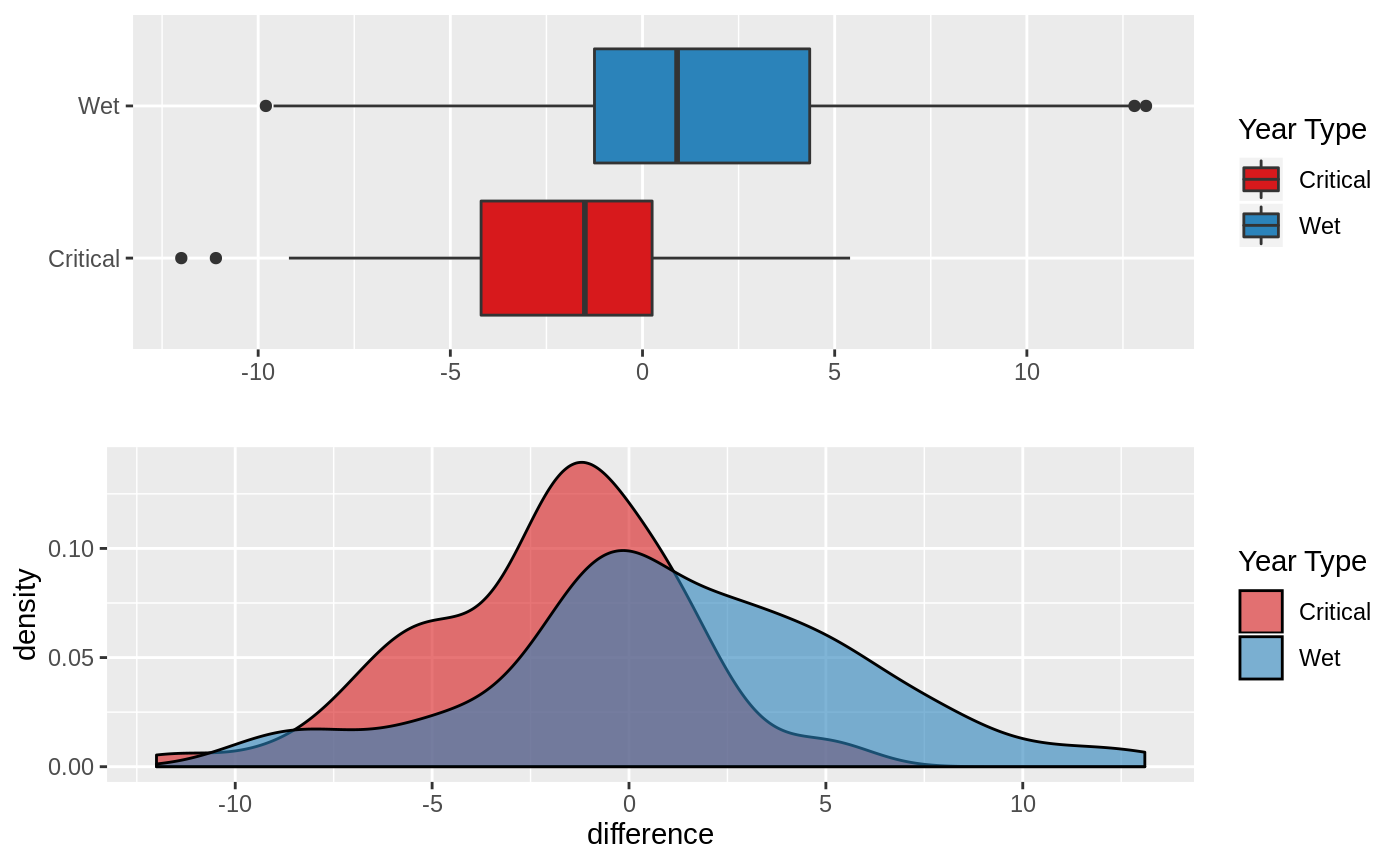
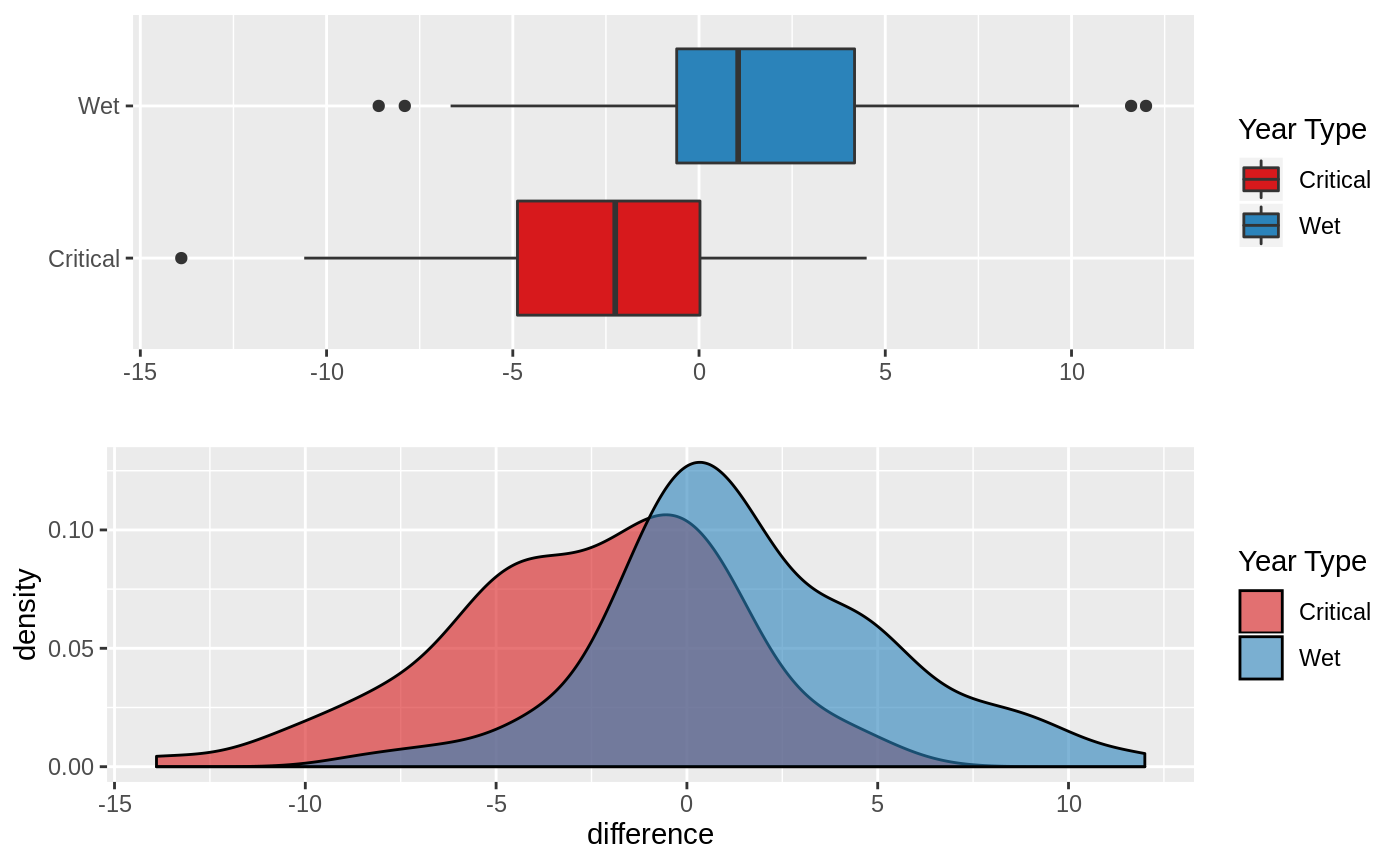
bring in work from home

diff --git a/docs/articles/groundwater-sites.html b/docs/articles/groundwater-sites.html
@@ -99,8 +99,8 @@
 <h2 class="hasAnchor">
 <a href="#all-sites-within-the-big-valley-subasin" class="anchor"></a>All Sites within the Big Valley Subasin</h2>
 <p>The data used is a result from making a query for all groundwater sites within the the Big Valley Subasin on the CASGEM data portal.</p>
-<div id="htmlwidget-868a864c9f6f1bf18823" style="width:700px;height:432.632880098888px;" class="leaflet html-widget"></div>
-<script type="application/json" data-for="htmlwidget-868a864c9f6f1bf18823">{"x":{"options":{"crs":{"crsClass":"L.CRS.EPSG3857","code":null,"proj4def":null,"projectedBounds":null,"options":{}}},"calls":[{"method":"addProviderTiles","args":["OpenTopoMap",null,null,{"errorTileUrl":"","noWrap":false,"detectRetina":false}]},{"method":"addCircleMarkers","args":[[38.9535,38.96222,38.971933,38.9718,38.9726,38.9734,38.9741,38.9778,38.9796,38.9796,38.9797,38.9825,38.9838,38.9863,38.9868,38.987505,38.9884,38.9898,38.9898,38.9907,38.9909,38.993,38.9937,38.9937,38.994,38.994647,38.994679,38.9971,38.997183,38.997506,38.9977,38.9984,38.9993,39.0009,39.00357,39.00404,39.0041,39.0043,39.0044,39.0044,39.0045,39.0047,39.0047,39.007004,39.005291,39.007381,39.009652,39.0104,39.0111,39.01281,38.9392,38.9403,38.9424,38.94378,38.9443,38.9464,38.9518,38.9542,38.9569,38.958677,38.9592,38.9592,38.9606,38.9611,38.9621,38.9626,38.9629,38.96434,38.9706,38.9718,38.9719,38.9744,38.9762,38.9766,38.98,38.9815,39.0136,39.0149,39.015,39.0159,39.0164,39.0175,39.0183,39.018588,39.020175],[-122.8968,-122.867223,-122.895905,-122.8958,-122.8847,-122.8679,-122.8984,-122.8732,-122.8819,-122.8819,-122.8831,-122.8286,-122.8931,-122.8186,-122.8802,-122.866551,-122.8936,-122.8293,-122.8555,-122.8239,-122.9116,-122.8687,-122.8718,-122.8751,-122.8706,-122.894686,-122.82226,-122.8413,-122.841335,-122.877074,-122.9095,-122.8666,-122.8482,-122.8936,-122.84271,-122.848964,-122.8801,-122.8288,-122.8434,-122.896,-122.8662,-122.8951,-122.8963,-122.839639,-122.838267,-122.822292,-122.838395,-122.8306,-122.8526,-122.861743,-122.8729,-122.8788,-122.8464,-122.861025,-122.8625,-122.8892,-122.8512,-122.841,-122.8885,-122.854461,-122.8391,-122.8971,-122.8615,-122.8872,-122.8314,-122.8515,-122.8978,-122.851532,-122.8324,-122.841,-122.855,-122.8435,-122.8258,-122.82878,-122.8443,-122.8559,-122.8362,-122.8719,-122.8646,-122.8906,-122.8322,-122.8682,-122.8483,-122.881273,-122.850014],10,null,null,{"interactive":true,"className":"","stroke":true,"color":"black","weight":2,"opacity":0.5,"fill":true,"fillColor":"#2b83ba","fillOpacity":0.8},null,null,["389535N1228968W001","389621N1228673W001","389711N1228964W001","389718N1228958W001","389726N1228847W001","389734N1228679W001","389741N1228984W001","389778N1228732W001","389796N1228819W001","389796N1228819W002","389797N1228831W001","389825N1228286W001","389838N1228931W001","389863N1228186W001","389868N1228802W001","389875N1228666W001","389884N1228936W001","389898N1228293W001","389898N1228555W001","389907N1228239W001","389909N1229116W001","389930N1228687W001","389937N1228718W001","389937N1228751W001","389940N1228706W001","389946N1228947W001","389949N1228308W001","389971N1228413W001","389972N1228414W001","389975N1228770W001","389977N1229095W001","389984N1228666W001","389993N1228482W001","390009N1228936W001","390011N1228427W001","390040N1228490W001","390041N1228801W001","390043N1228288W001","390044N1228434W001","390044N1228960W001","390045N1228662W001","390047N1228951W001","390047N1228963W001","390058N1228420W001","390068N1228381W001","390074N1228223W001","390095N1228385W001","390104N1228306W001","390111N1228526W001","390128N1228617W001","389392N1228729W001","389403N1228788W001","389424N1228464W001","389438N1228611W001","389443N1228625W001","389464N1228892W001","389518N1228512W001","389542N1228410W001","389569N1228885W001","389587N1228545W001","389592N1228391W001","389592N1228971W001","389606N1228615W001","389611N1228872W001","389621N1228314W001","389626N1228515W001","389629N1228978W001","389644N1228514W001","389706N1228324W001","389718N1228410W001","389719N1228550W001","389744N1228435W001","389762N1228258W001","389765N1228285W001","389800N1228443W001","389815N1228559W001","390136N1228362W001","390149N1228719W001","390150N1228646W001","390159N1228906W001","390164N1228322W001","390175N1228682W001","390183N1228483W001","390186N1228813W001","390202N1228500W001"],null,null,{"interactive":false,"permanent":false,"direction":"auto","opacity":1,"offset":[0,0],"textsize":"10px","textOnly":false,"className":"","sticky":true},null]}],"limits":{"lat":[38.9392,39.020175],"lng":[-122.9116,-122.8186]}},"evals":[],"jsHooks":[]}</script><p>In total there are 85 sites in the Big Valley basin. The earliest recorded data is from June 02, 1948, and the most recent recording is from March 28, 2019. The most abundant years of data are:</p>
+<div id="htmlwidget-66934b4136c105a0c10a" style="width:700px;height:432.632880098888px;" class="leaflet html-widget"></div>
+<script type="application/json" data-for="htmlwidget-66934b4136c105a0c10a">{"x":{"options":{"crs":{"crsClass":"L.CRS.EPSG3857","code":null,"proj4def":null,"projectedBounds":null,"options":{}}},"calls":[{"method":"addProviderTiles","args":["OpenTopoMap",null,null,{"errorTileUrl":"","noWrap":false,"detectRetina":false}]},{"method":"addCircleMarkers","args":[[38.9535,38.96222,38.971933,38.9718,38.9726,38.9734,38.9741,38.9778,38.9796,38.9796,38.9797,38.9825,38.9838,38.9863,38.9868,38.987505,38.9884,38.9898,38.9898,38.9907,38.9909,38.993,38.9937,38.9937,38.994,38.994647,38.994679,38.9971,38.997183,38.997506,38.9977,38.9984,38.9993,39.0009,39.00357,39.00404,39.0041,39.0043,39.0044,39.0044,39.0045,39.0047,39.0047,39.007004,39.005291,39.007381,39.009652,39.0104,39.0111,39.01281,38.9392,38.9403,38.9424,38.94378,38.9443,38.9464,38.9518,38.9542,38.9569,38.958677,38.9592,38.9592,38.9606,38.9611,38.9621,38.9626,38.9629,38.96434,38.9706,38.9718,38.9719,38.9744,38.9762,38.9766,38.98,38.9815,39.0136,39.0149,39.015,39.0159,39.0164,39.0175,39.0183,39.018588,39.020175],[-122.8968,-122.867223,-122.895905,-122.8958,-122.8847,-122.8679,-122.8984,-122.8732,-122.8819,-122.8819,-122.8831,-122.8286,-122.8931,-122.8186,-122.8802,-122.866551,-122.8936,-122.8293,-122.8555,-122.8239,-122.9116,-122.8687,-122.8718,-122.8751,-122.8706,-122.894686,-122.82226,-122.8413,-122.841335,-122.877074,-122.9095,-122.8666,-122.8482,-122.8936,-122.84271,-122.848964,-122.8801,-122.8288,-122.8434,-122.896,-122.8662,-122.8951,-122.8963,-122.839639,-122.838267,-122.822292,-122.838395,-122.8306,-122.8526,-122.861743,-122.8729,-122.8788,-122.8464,-122.861025,-122.8625,-122.8892,-122.8512,-122.841,-122.8885,-122.854461,-122.8391,-122.8971,-122.8615,-122.8872,-122.8314,-122.8515,-122.8978,-122.851532,-122.8324,-122.841,-122.855,-122.8435,-122.8258,-122.82878,-122.8443,-122.8559,-122.8362,-122.8719,-122.8646,-122.8906,-122.8322,-122.8682,-122.8483,-122.881273,-122.850014],10,null,null,{"interactive":true,"className":"","stroke":true,"color":"black","weight":2,"opacity":0.5,"fill":true,"fillColor":"#2b83ba","fillOpacity":0.8},null,null,["389535N1228968W001","389621N1228673W001","389711N1228964W001","389718N1228958W001","389726N1228847W001","389734N1228679W001","389741N1228984W001","389778N1228732W001","389796N1228819W001","389796N1228819W002","389797N1228831W001","389825N1228286W001","389838N1228931W001","389863N1228186W001","389868N1228802W001","389875N1228666W001","389884N1228936W001","389898N1228293W001","389898N1228555W001","389907N1228239W001","389909N1229116W001","389930N1228687W001","389937N1228718W001","389937N1228751W001","389940N1228706W001","389946N1228947W001","389949N1228308W001","389971N1228413W001","389972N1228414W001","389975N1228770W001","389977N1229095W001","389984N1228666W001","389993N1228482W001","390009N1228936W001","390011N1228427W001","390040N1228490W001","390041N1228801W001","390043N1228288W001","390044N1228434W001","390044N1228960W001","390045N1228662W001","390047N1228951W001","390047N1228963W001","390058N1228420W001","390068N1228381W001","390074N1228223W001","390095N1228385W001","390104N1228306W001","390111N1228526W001","390128N1228617W001","389392N1228729W001","389403N1228788W001","389424N1228464W001","389438N1228611W001","389443N1228625W001","389464N1228892W001","389518N1228512W001","389542N1228410W001","389569N1228885W001","389587N1228545W001","389592N1228391W001","389592N1228971W001","389606N1228615W001","389611N1228872W001","389621N1228314W001","389626N1228515W001","389629N1228978W001","389644N1228514W001","389706N1228324W001","389718N1228410W001","389719N1228550W001","389744N1228435W001","389762N1228258W001","389765N1228285W001","389800N1228443W001","389815N1228559W001","390136N1228362W001","390149N1228719W001","390150N1228646W001","390159N1228906W001","390164N1228322W001","390175N1228682W001","390183N1228483W001","390186N1228813W001","390202N1228500W001"],null,null,{"interactive":false,"permanent":false,"direction":"auto","opacity":1,"offset":[0,0],"textsize":"10px","textOnly":false,"className":"","sticky":true},null]}],"limits":{"lat":[38.9392,39.020175],"lng":[-122.9116,-122.8186]}},"evals":[],"jsHooks":[]}</script><p>In total there are 85 sites in the Big Valley basin. The earliest recorded data is from June 02, 1948, and the most recent recording is from March 28, 2019. The most abundant years of data are:</p>
 <p><br></p>
 <p><img src="groundwater-sites_files/figure-html/unnamed-chunk-4-1.png" width="700"></p>
 <p>Measurements of groundwater elevations is done twice a year, once in the Spring and once in the Fall. However Spring and Fall are not a consitent month. The plot below shows how the data observations are distributed across the months. I present the data as proportions (for example October accounts for over 30% of all the data we have).</p>
@@ -114,8 +114,8 @@
 <img src="adobe-creek-sites.png" alt="sites-along-adobe"><p class="caption">sites-along-adobe</p>
 </div>
 <p>Here are the identified sites from CASGEM that are near the Adobe Creek.</p>
-<div id="htmlwidget-6f618cf2766d7939de0c" style="width:700px;height:432.632880098888px;" class="leaflet html-widget"></div>
-<script type="application/json" data-for="htmlwidget-6f618cf2766d7939de0c">{"x":{"options":{"crs":{"crsClass":"L.CRS.EPSG3857","code":null,"proj4def":null,"projectedBounds":null,"options":{}}},"calls":[{"method":"addProviderTiles","args":["OpenTopoMap",null,null,{"errorTileUrl":"","noWrap":false,"detectRetina":false}]},{"method":"addCircleMarkers","args":[[38.9535,38.9726,38.9778,38.9796,38.9797,38.9868,38.993,38.9937,38.9937,38.994,38.997506,39.0041,38.9569,38.9592,39.0149,39.0175],[-122.8968,-122.8847,-122.8732,-122.8819,-122.8831,-122.8802,-122.8687,-122.8718,-122.8751,-122.8706,-122.877074,-122.8801,-122.8885,-122.8971,-122.8719,-122.8682],10,null,null,{"interactive":true,"className":"","stroke":true,"color":"black","weight":2,"opacity":0.5,"fill":true,"fillColor":"#2b83ba","fillOpacity":0.8},null,null,["Site Code <b>389535N1228968W001<\/b><br>Start Date: <b>Nov 03, 1948<\/b><br>End Date: <b>Oct 01, 2009<\/b><br>Total Observations: <b>109<\/b><br>Total Depth: <b>NA (feet)<\/b><br>","Site Code <b>389726N1228847W001<\/b><br>Start Date: <b>Mar 22, 1966<\/b><br>End Date: <b>Apr 11, 1974<\/b><br>Total Observations: <b>16<\/b><br>Total Depth: <b>NA (feet)<\/b><br>","Site Code <b>389778N1228732W001<\/b><br>Start Date: <b>Apr 07, 1949<\/b><br>End Date: <b>Oct 01, 2009<\/b><br>Total Observations: <b>118<\/b><br>Total Depth: <b>NA (feet)<\/b><br>","Site Code <b>389796N1228819W002<\/b><br>Start Date: <b>Nov 03, 1948<\/b><br>End Date: <b>Nov 09, 1966<\/b><br>Total Observations: <b>30<\/b><br>Total Depth: <b>NA (feet)<\/b><br>","Site Code <b>389797N1228831W001<\/b><br>Start Date: <b>Oct 16, 1963<\/b><br>End Date: <b>Oct 01, 2009<\/b><br>Total Observations: <b>88<\/b><br>Total Depth: <b>NA (feet)<\/b><br>","Site Code <b>389868N1228802W001<\/b><br>Start Date: <b>Mar 03, 1960<\/b><br>End Date: <b>Oct 01, 2009<\/b><br>Total Observations: <b>110<\/b><br>Total Depth: <b>NA (feet)<\/b><br>","Site Code <b>389930N1228687W001<\/b><br>Start Date: <b>Oct 18, 1984<\/b><br>End Date: <b>Mar 26, 2019<\/b><br>Total Observations: <b>70<\/b><br>Total Depth: <b>52 (feet)<\/b><br>","Site Code <b>389937N1228718W001<\/b><br>Start Date: <b>Apr 05, 1968<\/b><br>End Date: <b>Oct 01, 2009<\/b><br>Total Observations: <b>85<\/b><br>Total Depth: <b>NA (feet)<\/b><br>","Site Code <b>389937N1228751W001<\/b><br>Start Date: <b>Nov 01, 1948<\/b><br>End Date: <b>Oct 17, 1988<\/b><br>Total Observations: <b>86<\/b><br>Total Depth: <b>NA (feet)<\/b><br>","Site Code <b>389940N1228706W001<\/b><br>Start Date: <b>Nov 10, 1966<\/b><br>End Date: <b>Oct 01, 2009<\/b><br>Total Observations: <b>87<\/b><br>Total Depth: <b>NA (feet)<\/b><br>","Site Code <b>389975N1228770W001<\/b><br>Start Date: <b>Nov 03, 1977<\/b><br>End Date: <b>Mar 26, 2019<\/b><br>Total Observations: <b>87<\/b><br>Total Depth: <b>185 (feet)<\/b><br>","Site Code <b>390041N1228801W001<\/b><br>Start Date: <b>Oct 28, 1948<\/b><br>End Date: <b>Oct 01, 2009<\/b><br>Total Observations: <b>113<\/b><br>Total Depth: <b>NA (feet)<\/b><br>","Site Code <b>389569N1228885W001<\/b><br>Start Date: <b>Nov 01, 1948<\/b><br>End Date: <b>Nov 04, 1996<\/b><br>Total Observations: <b>225<\/b><br>Total Depth: <b>NA (feet)<\/b><br>","Site Code <b>389592N1228971W001<\/b><br>Start Date: <b>Nov 10, 1966<\/b><br>End Date: <b>Oct 01, 2009<\/b><br>Total Observations: <b>87<\/b><br>Total Depth: <b>NA (feet)<\/b><br>","Site Code <b>390149N1228719W001<\/b><br>Start Date: <b>Nov 22, 1960<\/b><br>End Date: <b>Apr 07, 2000<\/b><br>Total Observations: <b>80<\/b><br>Total Depth: <b>NA (feet)<\/b><br>","Site Code <b>390175N1228682W001<\/b><br>Start Date: <b>Mar 10, 1966<\/b><br>End Date: <b>Oct 01, 2009<\/b><br>Total Observations: <b>87<\/b><br>Total Depth: <b>NA (feet)<\/b><br>"],null,null,{"interactive":false,"permanent":false,"direction":"auto","opacity":1,"offset":[0,0],"textsize":"10px","textOnly":false,"className":"","sticky":true},null]}],"limits":{"lat":[38.9535,39.0175],"lng":[-122.8971,-122.8682]}},"evals":[],"jsHooks":[]}</script><p>In total there are 16 sites in the Big Valley basin. The earliest recorded data is from October 28, 1948, and the most recent recording is from March 26, 2019. The most abundant years of data are:</p>
+<div id="htmlwidget-35ac147f289ee99e5be1" style="width:700px;height:432.632880098888px;" class="leaflet html-widget"></div>
+<script type="application/json" data-for="htmlwidget-35ac147f289ee99e5be1">{"x":{"options":{"crs":{"crsClass":"L.CRS.EPSG3857","code":null,"proj4def":null,"projectedBounds":null,"options":{}}},"calls":[{"method":"addProviderTiles","args":["OpenTopoMap",null,null,{"errorTileUrl":"","noWrap":false,"detectRetina":false}]},{"method":"addCircleMarkers","args":[[38.9535,38.9726,38.9778,38.9796,38.9797,38.9868,38.993,38.9937,38.9937,38.994,38.997506,39.0041,38.9569,38.9592,39.0149,39.0175],[-122.8968,-122.8847,-122.8732,-122.8819,-122.8831,-122.8802,-122.8687,-122.8718,-122.8751,-122.8706,-122.877074,-122.8801,-122.8885,-122.8971,-122.8719,-122.8682],10,null,null,{"interactive":true,"className":"","stroke":true,"color":"black","weight":2,"opacity":0.5,"fill":true,"fillColor":"#2b83ba","fillOpacity":0.8},null,null,["Site Code <b>389535N1228968W001<\/b><br>Start Date: <b>Nov 03, 1948<\/b><br>End Date: <b>Oct 01, 2009<\/b><br>Total Observations: <b>109<\/b><br>Total Depth: <b>NA (feet)<\/b><br>","Site Code <b>389726N1228847W001<\/b><br>Start Date: <b>Mar 22, 1966<\/b><br>End Date: <b>Apr 11, 1974<\/b><br>Total Observations: <b>16<\/b><br>Total Depth: <b>NA (feet)<\/b><br>","Site Code <b>389778N1228732W001<\/b><br>Start Date: <b>Apr 07, 1949<\/b><br>End Date: <b>Oct 01, 2009<\/b><br>Total Observations: <b>118<\/b><br>Total Depth: <b>NA (feet)<\/b><br>","Site Code <b>389796N1228819W002<\/b><br>Start Date: <b>Nov 03, 1948<\/b><br>End Date: <b>Nov 09, 1966<\/b><br>Total Observations: <b>30<\/b><br>Total Depth: <b>NA (feet)<\/b><br>","Site Code <b>389797N1228831W001<\/b><br>Start Date: <b>Oct 16, 1963<\/b><br>End Date: <b>Oct 01, 2009<\/b><br>Total Observations: <b>88<\/b><br>Total Depth: <b>NA (feet)<\/b><br>","Site Code <b>389868N1228802W001<\/b><br>Start Date: <b>Mar 03, 1960<\/b><br>End Date: <b>Oct 01, 2009<\/b><br>Total Observations: <b>110<\/b><br>Total Depth: <b>NA (feet)<\/b><br>","Site Code <b>389930N1228687W001<\/b><br>Start Date: <b>Oct 18, 1984<\/b><br>End Date: <b>Mar 26, 2019<\/b><br>Total Observations: <b>70<\/b><br>Total Depth: <b>52 (feet)<\/b><br>","Site Code <b>389937N1228718W001<\/b><br>Start Date: <b>Apr 05, 1968<\/b><br>End Date: <b>Oct 01, 2009<\/b><br>Total Observations: <b>85<\/b><br>Total Depth: <b>NA (feet)<\/b><br>","Site Code <b>389937N1228751W001<\/b><br>Start Date: <b>Nov 01, 1948<\/b><br>End Date: <b>Oct 17, 1988<\/b><br>Total Observations: <b>86<\/b><br>Total Depth: <b>NA (feet)<\/b><br>","Site Code <b>389940N1228706W001<\/b><br>Start Date: <b>Nov 10, 1966<\/b><br>End Date: <b>Oct 01, 2009<\/b><br>Total Observations: <b>87<\/b><br>Total Depth: <b>NA (feet)<\/b><br>","Site Code <b>389975N1228770W001<\/b><br>Start Date: <b>Nov 03, 1977<\/b><br>End Date: <b>Mar 26, 2019<\/b><br>Total Observations: <b>87<\/b><br>Total Depth: <b>185 (feet)<\/b><br>","Site Code <b>390041N1228801W001<\/b><br>Start Date: <b>Oct 28, 1948<\/b><br>End Date: <b>Oct 01, 2009<\/b><br>Total Observations: <b>113<\/b><br>Total Depth: <b>NA (feet)<\/b><br>","Site Code <b>389569N1228885W001<\/b><br>Start Date: <b>Nov 01, 1948<\/b><br>End Date: <b>Nov 04, 1996<\/b><br>Total Observations: <b>225<\/b><br>Total Depth: <b>NA (feet)<\/b><br>","Site Code <b>389592N1228971W001<\/b><br>Start Date: <b>Nov 10, 1966<\/b><br>End Date: <b>Oct 01, 2009<\/b><br>Total Observations: <b>87<\/b><br>Total Depth: <b>NA (feet)<\/b><br>","Site Code <b>390149N1228719W001<\/b><br>Start Date: <b>Nov 22, 1960<\/b><br>End Date: <b>Apr 07, 2000<\/b><br>Total Observations: <b>80<\/b><br>Total Depth: <b>NA (feet)<\/b><br>","Site Code <b>390175N1228682W001<\/b><br>Start Date: <b>Mar 10, 1966<\/b><br>End Date: <b>Oct 01, 2009<\/b><br>Total Observations: <b>87<\/b><br>Total Depth: <b>NA (feet)<\/b><br>"],null,null,{"interactive":false,"permanent":false,"direction":"auto","opacity":1,"offset":[0,0],"textsize":"10px","textOnly":false,"className":"","sticky":true},null]}],"limits":{"lat":[38.9535,39.0175],"lng":[-122.8971,-122.8682]}},"evals":[],"jsHooks":[]}</script><p>In total there are 16 sites in the Big Valley basin. The earliest recorded data is from October 28, 1948, and the most recent recording is from March 26, 2019. The most abundant years of data are:</p>
 <p><br></p>
 <p><img src="groundwater-sites_files/figure-html/unnamed-chunk-8-1.png" width="700"></p>
 <p>Measurements of groundwater elevations is done twice a year, once in the Spring and once in the Fall. However Spring and Fall are not a consitent month. The plot below shows how the data observations are distributed across the months. I present the data as proportions (for example October accounts for over 30% of all the data we have).</p>

diff --git a/docs/articles/groundwater-trends.html b/docs/articles/groundwater-trends.html
@@ -100,8 +100,8 @@
 <h2 class="hasAnchor">
 <a href="#groundwater-well-selection" class="anchor"></a>Groundwater Well Selection</h2>
 <p>We will focus on wells where a groundwater elevation was reported for 2018. This results in 23 candiate wells for analysis. This number will be smaller as we seek to make comparison across years.</p>
-<div id="htmlwidget-f56c21e5ef1ee9898811" style="width:700px;height:432.632880098888px;" class="leaflet html-widget"></div>
-<script type="application/json" data-for="htmlwidget-f56c21e5ef1ee9898811">{"x":{"options":{"crs":{"crsClass":"L.CRS.EPSG3857","code":null,"proj4def":null,"projectedBounds":null,"options":{}}},"calls":[{"method":"addTiles","args":["//{s}.tile.openstreetmap.org/{z}/{x}/{y}.png",null,null,{"minZoom":0,"maxZoom":18,"tileSize":256,"subdomains":"abc","errorTileUrl":"","tms":false,"noWrap":false,"zoomOffset":0,"zoomReverse":false,"opacity":1,"zIndex":1,"detectRetina":false,"attribution":"&copy; <a href=\"http://openstreetmap.org\">OpenStreetMap<\/a> contributors, <a href=\"http://creativecommons.org/licenses/by-sa/2.0/\">CC-BY-SA<\/a>"}]},{"method":"addCircleMarkers","args":[[38.96222,38.971933,38.987505,38.9884,38.993,38.994647,38.994679,38.997183,38.997506,39.00357,39.00404,39.0044,39.007004,39.005291,39.007381,39.009652,39.01281,38.94378,38.958677,38.96434,38.9766,39.018588,39.020175],[-122.867223,-122.895905,-122.866551,-122.8936,-122.8687,-122.894686,-122.82226,-122.841335,-122.877074,-122.84271,-122.848964,-122.8434,-122.839639,-122.838267,-122.822292,-122.838395,-122.861743,-122.861025,-122.854461,-122.851532,-122.82878,-122.881273,-122.850014],10,null,null,{"interactive":true,"className":"","stroke":true,"color":"#03F","weight":5,"opacity":0.5,"fill":true,"fillColor":"#03F","fillOpacity":0.2},null,null,null,null,null,{"interactive":false,"permanent":false,"direction":"auto","opacity":1,"offset":[0,0],"textsize":"10px","textOnly":false,"className":"","sticky":true},null]}],"limits":{"lat":[38.94378,39.020175],"lng":[-122.895905,-122.82226]}},"evals":[],"jsHooks":[]}</script>
+<div id="htmlwidget-2f3cb84537810c6f0007" style="width:700px;height:432.632880098888px;" class="leaflet html-widget"></div>
+<script type="application/json" data-for="htmlwidget-2f3cb84537810c6f0007">{"x":{"options":{"crs":{"crsClass":"L.CRS.EPSG3857","code":null,"proj4def":null,"projectedBounds":null,"options":{}}},"calls":[{"method":"addTiles","args":["//{s}.tile.openstreetmap.org/{z}/{x}/{y}.png",null,null,{"minZoom":0,"maxZoom":18,"tileSize":256,"subdomains":"abc","errorTileUrl":"","tms":false,"noWrap":false,"zoomOffset":0,"zoomReverse":false,"opacity":1,"zIndex":1,"detectRetina":false,"attribution":"&copy; <a href=\"http://openstreetmap.org\">OpenStreetMap<\/a> contributors, <a href=\"http://creativecommons.org/licenses/by-sa/2.0/\">CC-BY-SA<\/a>"}]},{"method":"addCircleMarkers","args":[[38.9535,38.9726,38.9778,38.9796,38.9797,38.9868,38.993,38.9937,38.9937,38.994,38.997506,39.0041,38.9569,38.9592,39.0149,39.0175],[-122.8968,-122.8847,-122.8732,-122.8819,-122.8831,-122.8802,-122.8687,-122.8718,-122.8751,-122.8706,-122.877074,-122.8801,-122.8885,-122.8971,-122.8719,-122.8682],10,null,null,{"interactive":true,"className":"","stroke":true,"color":"#03F","weight":5,"opacity":0.5,"fill":true,"fillColor":"#03F","fillOpacity":0.2},null,null,null,null,null,{"interactive":false,"permanent":false,"direction":"auto","opacity":1,"offset":[0,0],"textsize":"10px","textOnly":false,"className":"","sticky":true},null]}],"limits":{"lat":[38.9535,39.0175],"lng":[-122.8971,-122.8682]}},"evals":[],"jsHooks":[]}</script>
 </div>
 <div id="elevation-change" class="section level2">
 <h2 class="hasAnchor">
@@ -134,28 +134,28 @@
 <tbody>
 <tr class="odd">
 <td align="left">Critical</td>
-<td align="right">127</td>
-<td align="right">18</td>
+<td align="right">82</td>
+<td align="right">15</td>
 </tr>
 <tr class="even">
 <td align="left">Dry</td>
-<td align="right">144</td>
-<td align="right">21</td>
+<td align="right">121</td>
+<td align="right">22</td>
 </tr>
 <tr class="odd">
 <td align="left">Below Normal</td>
-<td align="right">88</td>
-<td align="right">13</td>
+<td align="right">86</td>
+<td align="right">15</td>
 </tr>
 <tr class="even">
 <td align="left">Above Normal</td>
-<td align="right">118</td>
-<td align="right">17</td>
+<td align="right">82</td>
+<td align="right">15</td>
 </tr>
 <tr class="odd">
 <td align="left">Wet</td>
-<td align="right">214</td>
-<td align="right">31</td>
+<td align="right">184</td>
+<td align="right">33</td>
 </tr>
 </tbody>
 </table>
@@ -192,37 +192,37 @@
 <tbody>
 <tr class="odd">
 <td align="left">Critical</td>
-<td align="right">127</td>
+<td align="right">82</td>
 <td align="right">8</td>
 <td align="left">TRUE</td>
 <td align="left">FALSE</td>
 </tr>
 <tr class="even">
 <td align="left">Dry</td>
-<td align="right">144</td>
-<td align="right">14</td>
+<td align="right">121</td>
+<td align="right">16</td>
 <td align="left">TRUE</td>
 <td align="left">FALSE</td>
 </tr>
 <tr class="odd">
 <td align="left">Below Normal</td>
-<td align="right">88</td>
-<td align="right">4</td>
+<td align="right">86</td>
+<td align="right">8</td>
 <td align="left">TRUE</td>
 <td align="left">FALSE</td>
 </tr>
 <tr class="even">
 <td align="left">Above Normal</td>
-<td align="right">118</td>
-<td align="right">8</td>
-<td align="left">FALSE</td>
+<td align="right">82</td>
+<td align="right">10</td>
+<td align="left">TRUE</td>
 <td align="left">FALSE</td>
 </tr>
 <tr class="odd">
 <td align="left">Wet</td>
-<td align="right">214</td>
-<td align="right">15</td>
-<td align="left">TRUE</td>
+<td align="right">184</td>
+<td align="right">22</td>
+<td align="left">FALSE</td>
 <td align="left">FALSE</td>
 </tr>
 </tbody>
@@ -237,51 +237,51 @@
 <div id="question-2-previous-year-type-effect-on-elevation-changes" class="section level4">
 <h4 class="hasAnchor">
 <a href="#question-2-previous-year-type-effect-on-elevation-changes" class="anchor"></a>Question 2: Previous Year Type effect on Elevation Changes</h4>
-<pre><code>#&gt; [1] 24</code></pre>
+<pre><code>#&gt; [1] 38</code></pre>
 <p><img src="groundwater-trends_files/figure-html/unnamed-chunk-12-1.png" width="700"></p>
 <pre><code>#&gt; 
 #&gt;  Shapiro-Wilk normality test
 #&gt; 
 #&gt; data:  dry_types_to_wet[!dry_types_to_wet$is_outlier_for_dry_to_wet,     ]$difference
-#&gt; W = 0.96811, p-value = 0.6206
+#&gt; W = 0.98713, p-value = 0.9334
 #&gt; 
 #&gt;  Shapiro-Wilk normality test
 #&gt; 
 #&gt; data:  wet_vals
-#&gt; W = 0.98715, p-value = 0.06844
+#&gt; W = 0.98145, p-value = 0.0286
 #&gt; 
 #&gt;  One Sample t-test
 #&gt; 
 #&gt; data:  dry_types_to_wet[!dry_types_to_wet$is_outlier_for_dry_to_wet,     ]$difference
-#&gt; t = 10.263, df = 23, p-value = 2.336e-10
+#&gt; t = 5.3732, df = 37, p-value = 2.216e-06
 #&gt; alternative hypothesis: true mean is greater than 0
 #&gt; 95 percent confidence interval:
-#&gt;  3.644416      Inf
+#&gt;  2.318021      Inf
 #&gt; sample estimates:
 #&gt; mean of x 
-#&gt;     4.375
+#&gt;  3.378947
 #&gt; 
 #&gt;  One Sample t-test
 #&gt; 
 #&gt; data:  wet_vals
-#&gt; t = 3.8537, df = 198, p-value = 7.858e-05
+#&gt; t = 5.5598, df = 161, p-value = 5.498e-08
 #&gt; alternative hypothesis: true mean is greater than 0
 #&gt; 95 percent confidence interval:
-#&gt;  0.7176344       Inf
+#&gt;  1.139388      Inf
 #&gt; sample estimates:
 #&gt; mean of x 
-#&gt;  1.256432
+#&gt;  1.622037
 #&gt; 
 #&gt;  Welch Two Sample t-test
 #&gt; 
 #&gt; data:  wet_vals and dry_types_to_wet[!dry_types_to_wet$is_outlier_for_dry_to_wet, wet_vals and     ]$difference
-#&gt; t = -5.811, df = 55.571, p-value = 3.148e-07
+#&gt; t = -2.5344, df = 54.066, p-value = 0.01419
 #&gt; alternative hypothesis: true difference in means is not equal to 0
 #&gt; 95 percent confidence interval:
-#&gt;  -4.193821 -2.043315
+#&gt;  -3.1467079 -0.3671128
 #&gt; sample estimates:
 #&gt; mean of x mean of y 
-#&gt;  1.256432  4.375000</code></pre>
+#&gt;  1.622037  3.378947</code></pre>
 </div>
 </div>
 </div>
